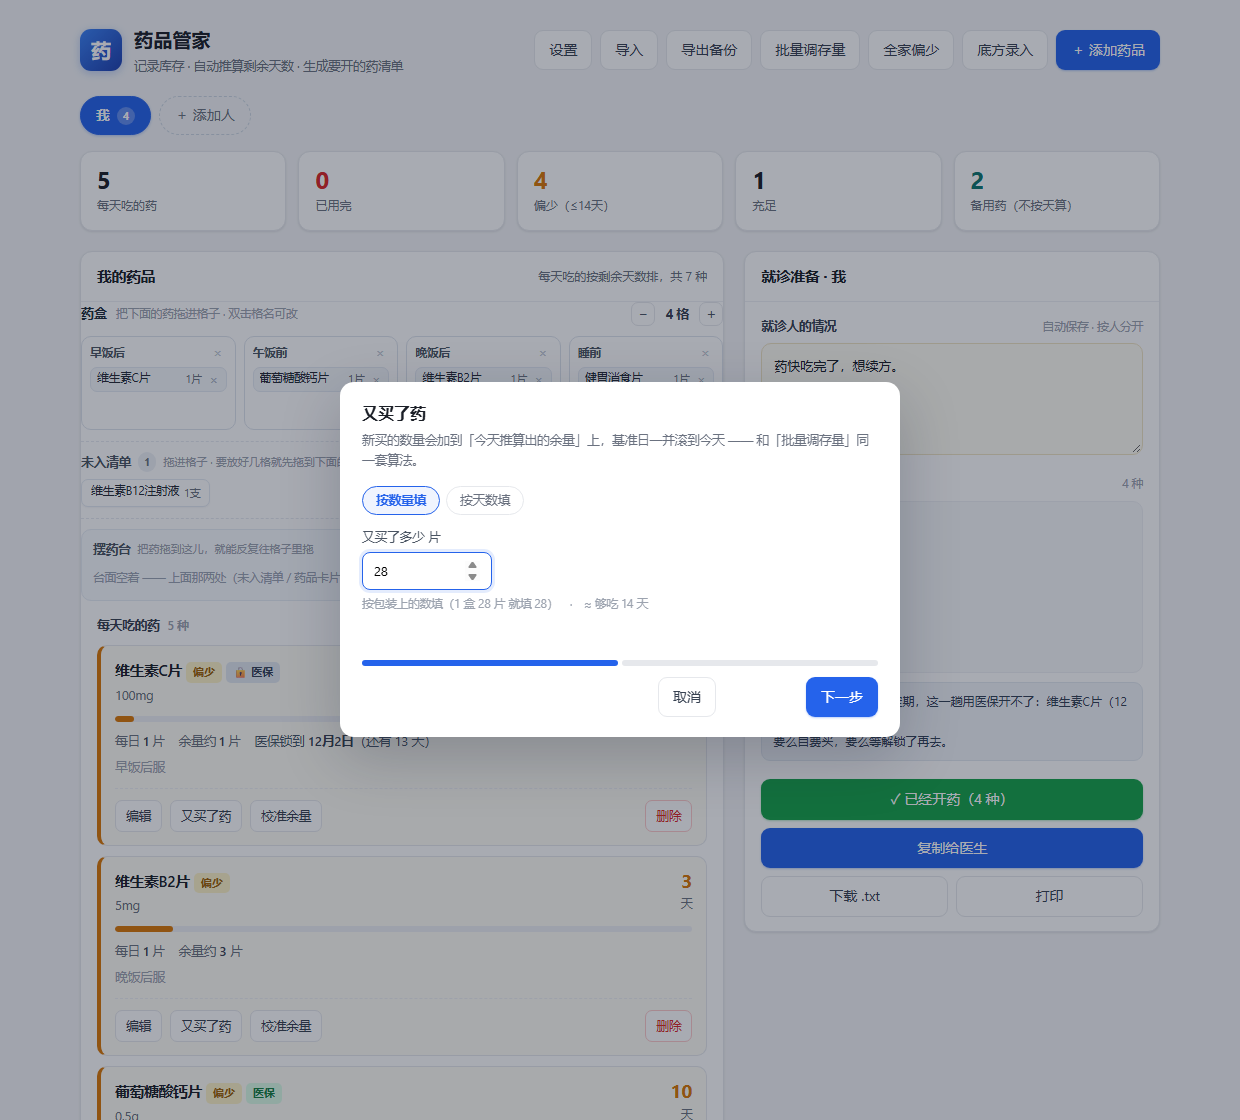
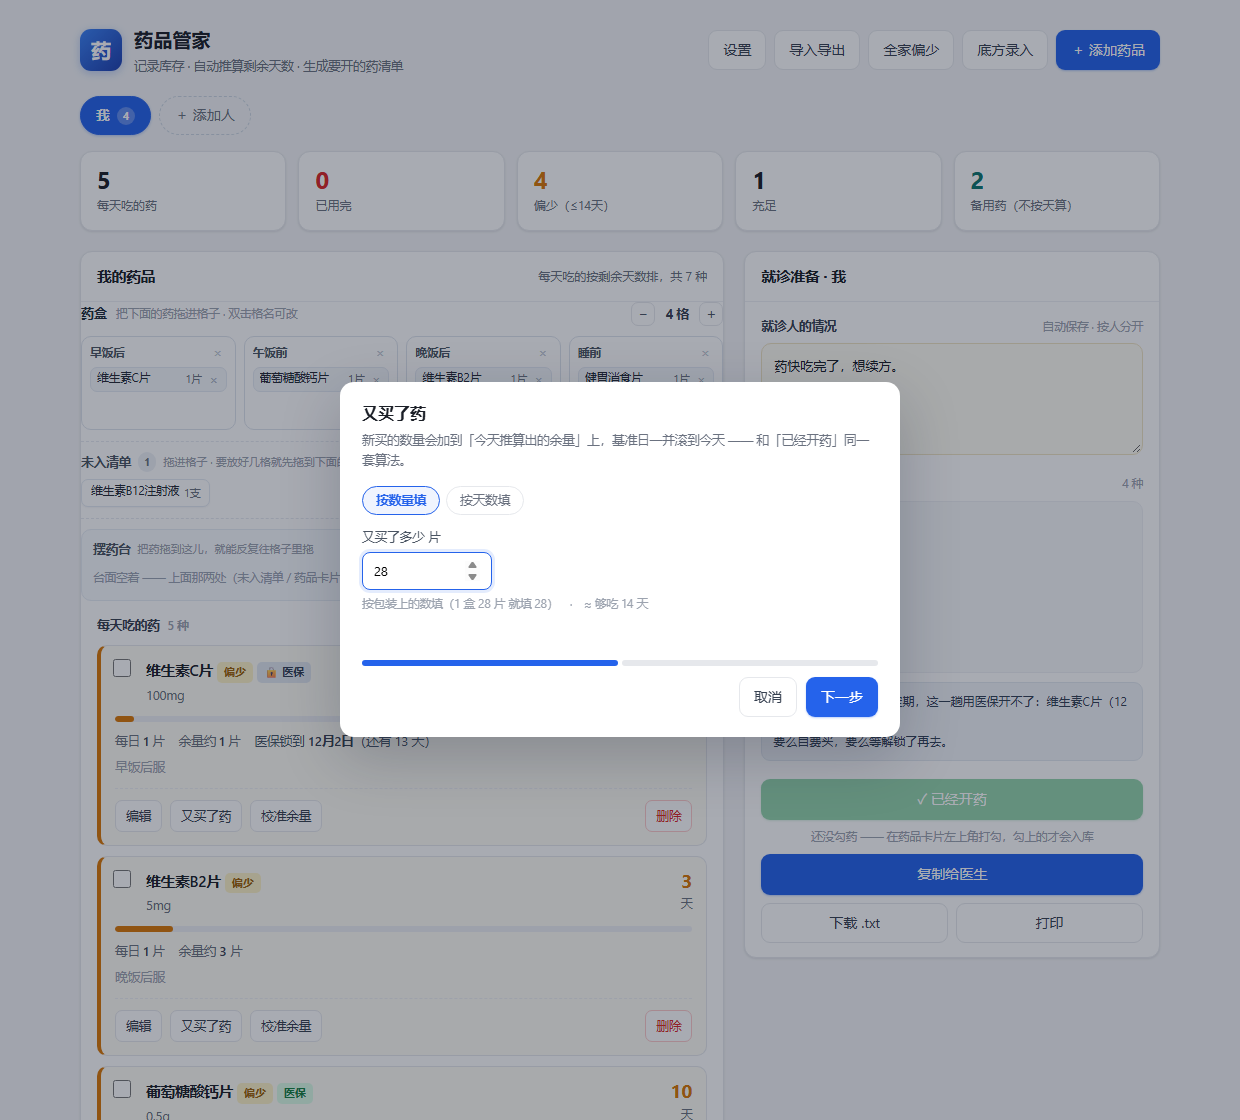
把弹窗第一步「取消」和右边按钮之间那块空收掉
用户原话：「在卡片上的这个编辑、又买了药和校准余量，它们弹出来之后的那个取消和
后边那个确定，它中间空的距离太大了，你调整好」。

病根不是 gap，是**一个看不见的按钮在占位**：
.wizbtns 里三颗按钮是「取消 / 上一步 / 确定」，第一步没有「上一步」，
原来用 visibility:hidden 把它藏起来 —— 藏了但位置还在，于是在「取消」和
「下一步」之间空出一整颗按钮（桌面量下来 68px，本该 9px）。
手机上更明显：.dlg-f .btn{flex:1} 让三份均分整行，中间那份是空的。

改成 display:none，不占位。之所以以前要用 visibility，注释里写着
「免得按钮左右挪、连点两下点空」—— 这条其实不成立：.wizbtns 是
justify-content:flex-end，最右那颗永远贴着右边缘，「上一步」出现只是把
「取消」往里挤，主操作按钮一步都没动。注释一并改正，免得以后又被改回去。

三个入口共用这一套（编辑药品 / 又买了药 / 校准余量），改一处全好：
桌面 68px → 9px，手机 390 宽下两颗按钮均分、中间 9px。

测试：test_wiz 91 → 93，新增两条量真实像素间隙的断言
（编辑弹窗第一步 ≤14px、又买了药第一步 ≤14px，实测都是 9px）。
README 里 test_prn 的条数顺手从 91 改成 84（上一轮漏改）。
全量：wiz 93、prn 84、ins 103、box 191、all 74、fam 50、app 26、
rxcap 296、rx_tpl 60、rx_local 67 —— 全绿。

APK 1.3 / versionCode 4 重新构建，包里 index.html 与仓库逐字节一致。

diff --git a/index.html b/index.html
@@ -475,8 +475,14 @@ input.wbad{border-color:#fca5a5;background:#fffafa}
 /* 底部：进度栏在上，三个按钮在下 */
 .wizfoot{flex-direction:column;align-items:stretch;gap:11px}
 .wizbtns{display:flex;justify-content:flex-end;gap:9px}
-.wizbtns .btn[data-wiz=prev]{visibility:hidden}
-.wizbtns .btn[data-wiz=prev].can{visibility:visible}
+/* 第一步没有「上一步」，这个按钮就不该占位。
+   ★ 原来是 visibility:hidden —— 它把按钮位置稳住、免得第二步时按钮左右跳，
+     但代价是第一步的「取消」和「确定」中间空出一整格（2026-11-19 用户：
+     「取消和后边那个确定，它中间空的距离太大了」）。按这一下不跳，
+     不如少一块莫名其妙的空白 —— 改成 display:none，连带手机上的 flex:1
+     也只剩两个可见按钮均分，不会留一个空槽。 */
+.wizbtns .btn[data-wiz=prev]{display:none}
+.wizbtns .btn[data-wiz=prev].can{display:block}
 /* 进度栏只有图形，不写「第 3 步 / 共 8 步」——数是哪一步这件事，一段亮着的方块
    比一句话更快看懂，还省掉弹窗里的一整行高度。 */
 /* 进度条本身就是「点得动」的：一格一段，点哪段跳哪步 ——
@@ -2971,8 +2977,11 @@ function wizRender(w){
   w.all.forEach(function(s){ s.classList.toggle('on', s === cur); });
 
   w.dots.hidden = (n < 2);   // 只有一步时不画条：一整段全亮，什么也没说
-  // 第一步不显示「上一步」，但**留着位置**（visibility 而不是 hidden）：
-  // 否则底下按钮会左右挪一下，连点两下很容易点空。
+  // 第一步不显示「上一步」，而且**不占位置**（display:none，见 .wizbtns 那条注释）。
+  // 原来用的是 visibility:hidden，为的是按钮不左右挪 —— 但代价是第一步
+  // 「取消」和「下一步」中间空出一整格（2026-11-19 用户：「中间空的距离太大了」）。
+  // 其实主按钮本来就不会挪：.wizbtns 是 justify-content:flex-end，
+  // 最右那颗永远贴着右边缘，左边多出一颗「上一步」只是把「取消」往里挤。
   w.prev.classList.toggle('can', w.i > 0);
   w.prev.disabled = (w.i === 0);
   w.next.textContent = last ? (w.okText || '保存') : '下一步';

diff --git a/_check/test_wiz.py b/_check/test_wiz.py
@@ -100,9 +100,27 @@ PROBE = r"""
   ck('图形是 8 段、亮在第 1 段', bar('formMed') === '8:1', bar('formMed'));
   ck('进度条分 8 段，第一段是当前段', dots('formMed').length === 8
      && dots('formMed')[0].className === 'now', dots('formMed').length + ' / ' + (dots('formMed')[0] || {}).className);
-  ck('第一步不显示「上一步」（但位置留着，按钮不乱挪）',
-     !prevB('formMed').classList.contains('can') && prevB('formMed').disabled === true,
-     prevB('formMed').className);
+  // ★ 2026-11-19 用户：「取消和后边那个确定，它中间空的距离太大了」。
+  //   病根是「上一步」用 visibility:hidden 占着位 —— 第一步只有两颗按钮，
+  //   中间却空出一整格。现在改成 display:none，两个可见按钮之间只剩 9px 的 gap。
+  var pb0 = prevB('formMed');
+  ck('第一步「上一步」不显示，而且是彻底不占位（display:none）',
+     !pb0.classList.contains('can') && getComputedStyle(pb0).display === 'none'
+       && pb0.disabled === true,
+     getComputedStyle(pb0).display + ' / ' + pb0.className);
+  ck('★ 第一步「取消」和「下一步」之间只剩 9px，没有隐形按钮撑开一大片',
+     (function(){
+       var cb = q('#formMed #btnCancel');
+       if(!cb) return false;
+       var gap = Math.round(nextB('formMed').getBoundingClientRect().left
+                          - cb.getBoundingClientRect().right);
+       return gap >= 0 && gap <= 14;
+     })(),
+     (function(){
+       var cb = q('#formMed #btnCancel');
+       return cb ? String(Math.round(nextB('formMed').getBoundingClientRect().left
+                                     - cb.getBoundingClientRect().right)) + 'px' : '没找到取消';
+     })());
   // 别的步骤是真的不在眼里，不是"挪到下面去了"
   ck('第二步那组单选此刻看不见', !visible(q('#kindRow')), String(visible(q('#kindRow'))));
   ck('「开药限制」那格此刻看不见', !visible(f.rxMax), String(visible(f.rxMax)));
@@ -353,6 +371,20 @@ PROBE = r"""
      stepOf('formNum') + ' / ' + bar('formNum'));
   ck('弹窗里只有数量那一格露着（自费/医保还没问）', visible(q('#numVal')) && !visible(q('#numIns')),
      visible(q('#numVal')) + ' / ' + visible(q('#numIns')));
+  // ★ 2026-11-19：这个弹窗第一步同样不该被隐形的「上一步」撑开
+  ck('★ 「又买了药」第一步：取消和「下一步」贴在一起（≤14px）',
+     (function(){
+       var cb = q('#btnNumCancel');
+       if(!cb) return false;
+       var gap = Math.round(nextB('formNum').getBoundingClientRect().left
+                          - cb.getBoundingClientRect().right);
+       return gap >= 0 && gap <= 14;
+     })(),
+     (function(){
+       var cb = q('#btnNumCancel');
+       return cb ? String(Math.round(nextB('formNum').getBoundingClientRect().left
+                                     - cb.getBoundingClientRect().right)) + 'px' : '没找到取消';
+     })());
   q('#numVal').value = '';
   tapNext('formNum');
   ck('数量空着点「下一步」→ 拦住并说明', stepOf('formNum') === 'val' && /先填/.test(errTxt('formNum')),

diff --git a/README.md b/README.md
@@ -884,7 +884,7 @@ android/AndroidManifest.xml  清单：连 INTERNET 权限都没有
 android/src/com/xiaotuji/drugkeeper/MainActivity.java  WebView + 返回键 + 剪贴板 + 写文件
 android/make_icon.py     画 App 图标（PIL 生成，不是手放的图）
 _check/test_app.py        Android 壳补丁的自检 —— 26 条（假造一个 window.AndroidApp，把「导出落盘 / 复制进剪贴板 / 返回键先关弹窗」这三条只有装了 App 才走的路真跑一遍；顺带验「导入导出」一个入口两项、顶栏那三个旧按钮确实没了；反面再验「没有 AndroidApp 时补丁整段不生效」）
-_check/test_wiz.py        引导式填写的自检 —— 91 条（三张表各自几步、一打开只露一步、进度栏只有图形与段数、「余量是哪天的」那格已删且**没动余量时基准不被改写**、**点哪段跳哪段**、这一格没填对就不让过且是就地红字不是弹窗、**回车 = 下一步而不是提交整张表**、备用药跳过「开药限制」、只有一格时进度栏不出现、走完 8 步存下来的每个字段、**「按数量 / 按天数」二选一填一个另一个当场算出来且只切 tab 不动值**、以及"字段一个没少 / name 一个没改"）
+_check/test_wiz.py        引导式填写的自检 —— 93 条（三张表各自几步、一打开只露一步、进度栏只有图形与段数、「余量是哪天的」那格已删且**没动余量时基准不被改写**、**点哪段跳哪段**、这一格没填对就不让过且是就地红字不是弹窗、**回车 = 下一步而不是提交整张表**、备用药跳过「开药限制」、只有一格时进度栏不出现、走完 8 步存下来的每个字段、**「按数量 / 按天数」二选一填一个另一个当场算出来且只切 tab 不动值**、**第一步「取消」和「下一步」之间只剩 9px 且隐形的「上一步」不再占位**、以及"字段一个没少 / name 一个没改"）
 _check/shot.py            重新生成 docs/ 里的截图（含 390×844 的手机版四张）
 docs/                     README 用的截图（每张都在上面被引用；没有没人看的图）
 LICENSE                   MIT，署名「人间小土鸡」
@@ -899,14 +899,14 @@ LICENSE                   MIT，署名「人间小土鸡」
 
 ```bash
 python _check/test_rxcap.py       # 网页本体：296 项
-python _check/test_prn.py         # 备用药那一类：91 项
+python _check/test_prn.py         # 备用药那一类：84 项
 python _check/test_box.py         # 药盒 + 未入清单 + 摆药台 + 拖拽 + 折行 + 单格删除 + 弹窗：191 项
 python _check/test_all.py         # 全家汇总（按药名合并 + 调总量补给余量最少的人）：74 项
 python _check/test_app.py         # Android 壳补丁（导出/复制/返回键）：26 项
 python _check/test_fam.py         # 全家偏少聚合页：50 项
 python _check/test_rx_tpl.py      # 底方提示词 + 只擦不解析的服药时间：60 项
 python _check/test_rx_local.py    # 本地解析工具：67 项（纯函数，跑得快）
-python _check/test_wiz.py         # 引导式填写（一次只问一件事）：91 项
+python _check/test_wiz.py         # 引导式填写（一次只问一件事）：93 项
 ```
 
 前者会用无头 Chrome 打开一份临时副本（数据由脚本临时注入，不会写回 `index.html`），
